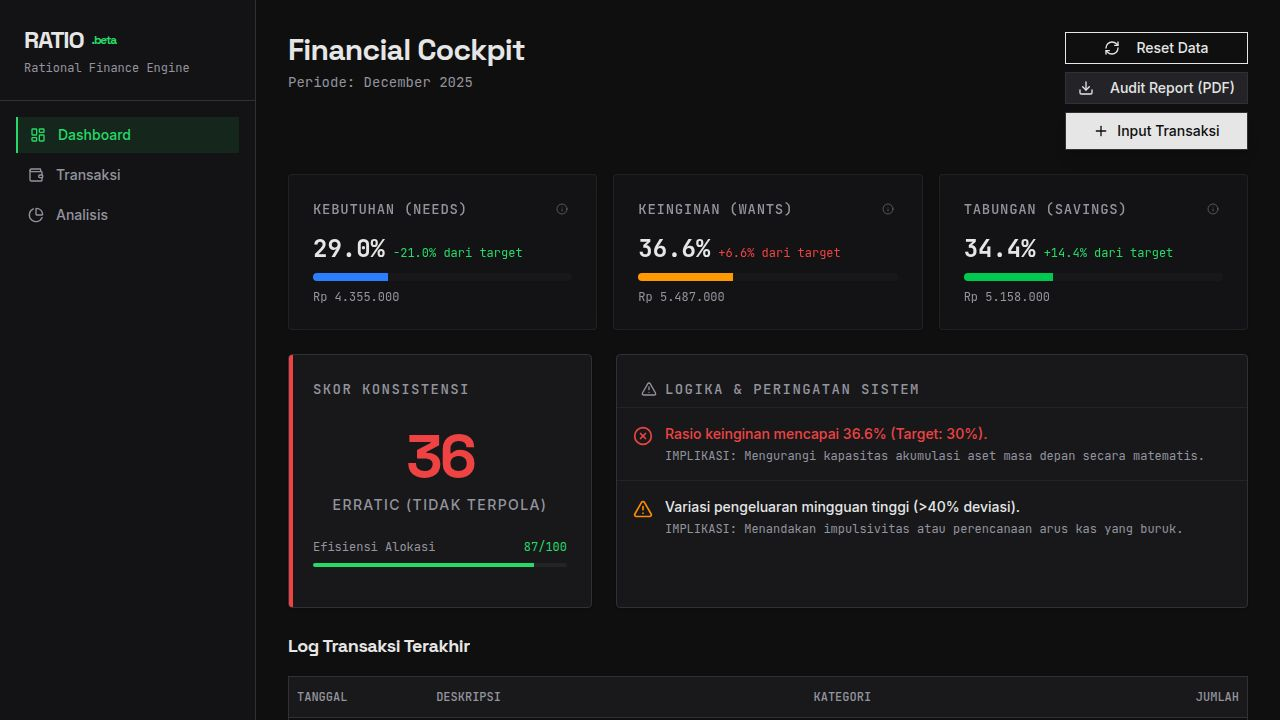
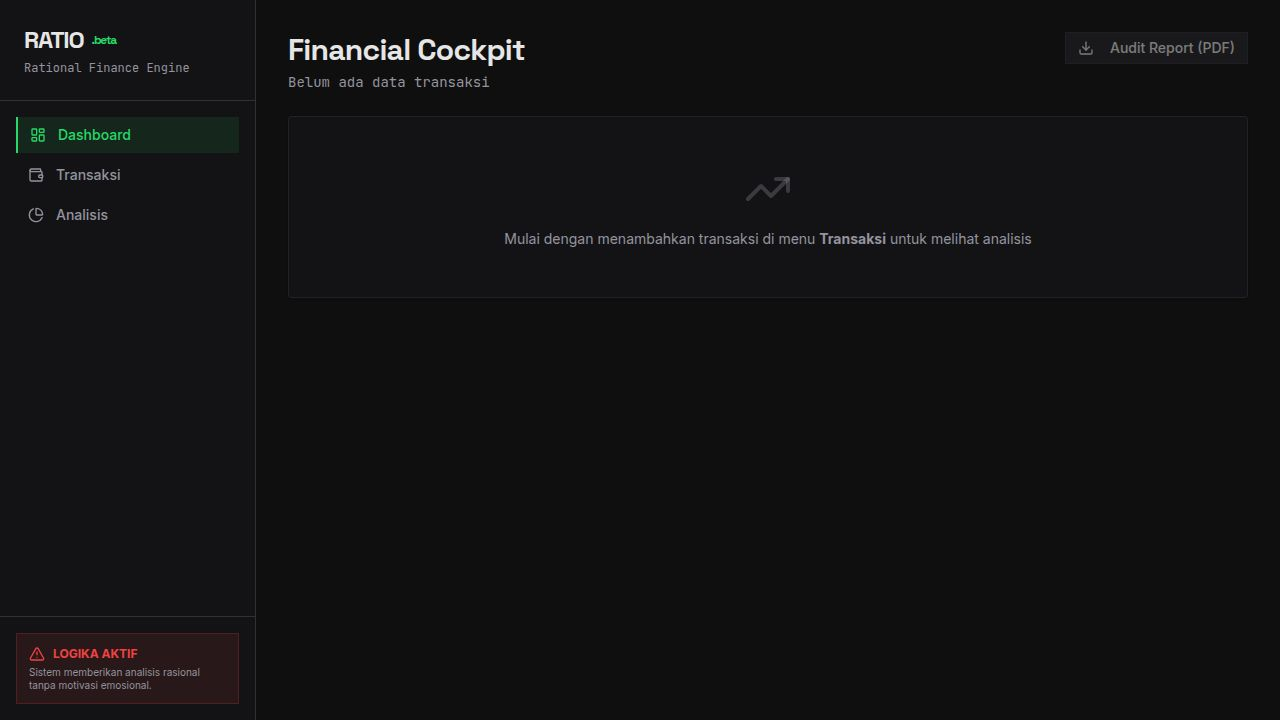
Remove unused authentication pages and simplify navigation
Remove Login, Register, and Settings pages, simplifying the app's routing and removing authentication-related code from App.tsx and Shell.tsx.

Replit-Commit-Author: Agent
Replit-Commit-Session-Id: ad09e2ed-7f14-4485-82d7-936a2b49006a
Replit-Commit-Checkpoint-Type: full_checkpoint
Replit-Commit-Event-Id: d9ac6431-d1d4-4ba0-9543-303f537963c8
Replit-Commit-Screenshot-Url: https://storage.googleapis.com/screenshot-production-us-central1/1df24301-7d6c-4cb4-98c6-3103d84519f4/ad09e2ed-7f14-4485-82d7-936a2b49006a/pSBwc2O
Replit-Helium-Checkpoint-Created: true

diff --git a/client/src/components/layout/Shell.tsx b/client/src/components/layout/Shell.tsx
@@ -5,11 +5,7 @@ import {
   Wallet,
   PieChart,
   AlertTriangle,
-  ChevronLeft,
-  ChevronRight,
-  Settings,
 } from "lucide-react";
-import { useAuth } from "@/lib/auth";
 import { cn } from "@/lib/utils";
 
 export function Shell({ children }: { children: React.ReactNode }) {
@@ -32,7 +28,6 @@ export function Shell({ children }: { children: React.ReactNode }) {
     { icon: LayoutDashboard, label: "Dashboard", href: "/" },
     { icon: Wallet, label: "Transaksi", href: "/transactions" },
     { icon: PieChart, label: "Analisis", href: "/analysis" },
-    { icon: Settings, label: "Pengaturan", href: "/settings" },
   ];
 
   useEffect(() => {
@@ -55,16 +50,10 @@ export function Shell({ children }: { children: React.ReactNode }) {
         )}
       >
         <div className="p-6 border-b border-border">
-          <div className="flex items-center justify-between">
-            <div className="flex items-center gap-2">
-              <h1 className="text-2xl font-display font-bold tracking-tighter flex items-center gap-2">
-                RATIO<span className="text-accent text-xs align-top">.beta</span>
-              </h1>
-            </div>
-
-            <div className="flex items-center gap-2">
-              <AuthArea collapsed={collapsed} setCollapsed={setCollapsed} />
-            </div>
+          <div className="flex items-center justify-between gap-2">
+            <h1 className="text-2xl font-display font-bold tracking-tighter flex items-center gap-2">
+              RATIO<span className="text-accent text-xs align-top">.beta</span>
+            </h1>
           </div>
           <p className="text-xs text-muted-foreground mt-1 font-mono">
             Rational Finance Engine
@@ -106,55 +95,19 @@ export function Shell({ children }: { children: React.ReactNode }) {
                 Logika Aktif
               </span>
             </div>
-            <p className="text-[10px] text-muted-foreground leading-tight">
-              Sistem akan memberikan peringatan rasional tanpa empati buatan.
+            <p className={cn("text-[10px] text-muted-foreground leading-tight", collapsed && "hidden")}>
+              Sistem memberikan analisis rasional tanpa motivasi emosional.
             </p>
           </div>
         </div>
       </aside>
 
       {/* Main Content */}
-      <main
-        className={cn(
-          "flex-1 overflow-auto transition-all duration-200",
-          isMobile ? "ml-0" : collapsed ? "md:ml-16" : "md:ml-64"
-        )}
-      >
-        <div className="container mx-auto max-w-7xl p-6 md:p-8 space-y-8">
+      <main className={cn("flex-1 overflow-auto", "md:ml-64")}>
+        <div className="container mx-auto max-w-7xl p-4 sm:p-6 md:p-8 space-y-6 md:space-y-8">
           {children}
         </div>
       </main>
     </div>
-  );
-}
-
-function AuthArea({ collapsed, setCollapsed }: { collapsed: boolean; setCollapsed: (s: boolean) => void }) {
-  const { user, logout } = useAuth();
-
-  return (
-    <>
-      <button
-        aria-label={collapsed ? "Expand sidebar" : "Collapse sidebar"}
-        onClick={() => {
-          setCollapsed((s) => {
-            const next = !s;
-            try { localStorage.setItem("ratio_sidebar_collapsed", next ? "true" : "false"); } catch {}
-            return next;
-          });
-        }}
-        className="p-1 rounded-sm hover:bg-accent/5 text-muted-foreground"
-      >
-        {collapsed ? <ChevronRight className="w-4 h-4" /> : <ChevronLeft className="w-4 h-4" />}
-      </button>
-
-      {user ? (
-        <div className="flex items-center gap-2">
-          <div className={cn("text-sm text-muted-foreground", collapsed && "hidden")}>{user.username}</div>
-          <button onClick={logout} className="px-2 py-1 text-xs rounded-sm border">
-            Logout
-          </button>
-        </div>
-      ) : null}
-    </>
   );
 }

diff --git a/client/src/pages/Register.tsx b/client/src/pages/Register.tsx
@@ -1,90 +1,6 @@
-import React, { useState } from "react";
-import { useAuth } from "@/lib/auth";
-import { Link } from "wouter";
-import { Shell } from "@/components/layout/Shell";
-import { cn } from "@/lib/utils";
+// This page is deprecated - use Dashboard instead
+import { Navigate } from "wouter";
 
 export default function Register() {
-  const { register } = useAuth();
-  const [username, setUsername] = useState("");
-  const [password, setPassword] = useState("");
-  const [confirm, setConfirm] = useState("");
-  const [error, setError] = useState<string | null>(null);
-  const [strength, setStrength] = useState(0);
-
-  async function handleSubmit(e: React.FormEvent) {
-    e.preventDefault();
-    setError(null);
-    if (!username) return setError("Masukkan nama pengguna");
-    if (!password) return setError("Masukkan kata sandi");
-    if (password.length < 8) return setError("Kata sandi minimal 8 karakter");
-    if (password !== confirm) return setError("Kata sandi tidak cocok");
-
-    const res = await register(username, password);
-    if (!res.ok) setError(res.message || "Gagal membuat akun");
-  }
-
-  function calcStrength(pw: string) {
-    let score = 0;
-    if (pw.length >= 8) score++;
-    if (/[A-Z]/.test(pw)) score++;
-    if (/[0-9]/.test(pw)) score++;
-    if (/[^A-Za-z0-9]/.test(pw)) score++;
-    return score; // 0-4
-  }
-
-
-  return (
-    <Shell>
-      <div className="max-w-sm mx-auto mt-16 p-6 bg-card rounded-md border border-border">
-        <h2 className="text-lg font-semibold mb-4">Buat Akun</h2>
-        <form onSubmit={handleSubmit} className="space-y-3">
-          <div>
-            <label className="text-xs text-muted-foreground">Nama Pengguna</label>
-            <input
-              value={username}
-              onChange={(e) => setUsername(e.target.value)}
-              className="w-full mt-1 p-2 bg-input border border-border rounded-sm"
-              placeholder="contoh: habib"
-            />
-          </div>
-          <div>
-            <label className="text-xs text-muted-foreground">Kata Sandi</label>
-            <input
-              type="password"
-              value={password}
-              onChange={(e) => { setPassword(e.target.value); setStrength(calcStrength(e.target.value)); }}
-              className="w-full mt-1 p-2 bg-input border border-border rounded-sm"
-            />
-          </div>
-          <div>
-            <div className="h-2 bg-muted rounded-sm overflow-hidden">
-              <div
-                className={cn(
-                  "h-full",
-                  strength <= 1 ? "bg-destructive" : strength === 2 ? "bg-yellow-500" : strength === 3 ? "bg-accent" : "bg-emerald-500"
-                )}
-                style={{ width: `${(strength / 4) * 100}%` }}
-              />
-            </div>
-            <div className="text-xs text-muted-foreground mt-1">{["Very weak","Weak","Fair","Good","Strong"][strength]}</div>
-          </div>
-          <div>
-            <label className="text-xs text-muted-foreground">Konfirmasi Kata Sandi</label>
-            <input
-              type="password"
-              value={confirm}
-              onChange={(e) => setConfirm(e.target.value)}
-              className="w-full mt-1 p-2 bg-input border border-border rounded-sm"
-            />
-          </div>
-          {error && <div className="text-sm text-destructive">{error}</div>}
-          <div className="flex gap-2">
-            <button className="px-3 py-2 bg-accent text-accent-foreground rounded-sm">Buat Akun</button>
-            <Link href="/login" className="px-3 py-2 rounded-sm border inline-flex items-center">Masuk</Link>
-          </div>
-        </form>
-      </div>
-    </Shell>
-  );
+  return <Navigate to="/" />;
 }

diff --git a/client/src/pages/Settings.tsx b/client/src/pages/Settings.tsx
@@ -1,52 +1,6 @@
-import React, { useState } from "react";
-import { useAuth } from "@/lib/auth";
-import { Shell } from "@/components/layout/Shell";
+// This page is deprecated - use Dashboard instead
+import { Navigate } from "wouter";
 
 export default function Settings() {
-  const { user, changePassword, logout } = useAuth();
-  const [oldPass, setOldPass] = useState("");
-  const [newPass, setNewPass] = useState("");
-  const [confirm, setConfirm] = useState("");
-  const [msg, setMsg] = useState<string | null>(null);
-
-  async function handleChange(e: React.FormEvent) {
-    e.preventDefault();
-    setMsg(null);
-    if (newPass.length < 8) return setMsg("Kata sandi minimal 8 karakter");
-    if (newPass !== confirm) return setMsg("Konfirmasi kata sandi tidak cocok");
-    if (!user) return setMsg("Tidak ada pengguna");
-
-    const res = await changePassword(user.username, oldPass, newPass);
-    if (!res.ok) setMsg(res.message || "Gagal mengubah kata sandi");
-    else setMsg("Kata sandi berhasil diubah");
-  }
-
-  return (
-    <Shell>
-      <div className="max-w-md mx-auto mt-8 p-6 bg-card rounded-md border border-border space-y-4">
-        <h2 className="text-lg font-semibold">Pengaturan Akun</h2>
-        <div className="text-sm text-muted-foreground">Nama pengguna: {user?.username}</div>
-
-        <form onSubmit={handleChange} className="space-y-3">
-          <div>
-            <label className="text-xs text-muted-foreground">Kata Sandi Lama</label>
-            <input value={oldPass} onChange={(e) => setOldPass(e.target.value)} className="w-full mt-1 p-2 bg-input border border-border rounded-sm" type="password" />
-          </div>
-          <div>
-            <label className="text-xs text-muted-foreground">Kata Sandi Baru</label>
-            <input value={newPass} onChange={(e) => setNewPass(e.target.value)} className="w-full mt-1 p-2 bg-input border border-border rounded-sm" type="password" />
-          </div>
-          <div>
-            <label className="text-xs text-muted-foreground">Konfirmasi Kata Sandi Baru</label>
-            <input value={confirm} onChange={(e) => setConfirm(e.target.value)} className="w-full mt-1 p-2 bg-input border border-border rounded-sm" type="password" />
-          </div>
-          {msg && <div className="text-sm text-muted-foreground">{msg}</div>}
-          <div className="flex gap-2">
-            <button className="px-3 py-2 bg-accent text-accent-foreground rounded-sm">Ubah Kata Sandi</button>
-            <button type="button" onClick={logout} className="px-3 py-2 rounded-sm border">Logout</button>
-          </div>
-        </form>
-      </div>
-    </Shell>
-  );
+  return <Navigate to="/" />;
 }

diff --git a/client/src/pages/Login.tsx b/client/src/pages/Login.tsx
@@ -1,59 +1,6 @@
-import React, { useState } from "react";
-import { useAuth } from "@/lib/auth";
-import { Shell } from "@/components/layout/Shell";
+// This page is deprecated - use Dashboard instead
+import { Navigate } from "wouter";
 
 export default function Login() {
-  const { login } = useAuth();
-  const [username, setUsername] = useState("");
-  const [password, setPassword] = useState("");
-  const [error, setError] = useState<string | null>(null);
-
-  async function handleSubmit(e: React.FormEvent) {
-    e.preventDefault();
-    setError(null);
-    if (!username) return setError("Masukkan nama pengguna");
-    // password not validated for demo
-    const res = await login(username, password);
-    if (!res.ok) {
-      if (res.message === "user_not_found") setError("Pengguna tidak ditemukan");
-      else if (res.message === "wrong_password") setError("Kata sandi salah");
-      else setError(res.message || "Gagal login");
-    }
-  }
-
-  return (
-    <Shell>
-      <div className="max-w-sm mx-auto mt-16 p-6 bg-card rounded-md border border-border">
-        <h2 className="text-lg font-semibold mb-4">Masuk ke RATIO</h2>
-        <form onSubmit={handleSubmit} className="space-y-3">
-          <div>
-            <label className="text-xs text-muted-foreground">Nama Pengguna</label>
-            <input
-              value={username}
-              onChange={(e) => setUsername(e.target.value)}
-              className="w-full mt-1 p-2 bg-input border border-border rounded-sm"
-              placeholder="contoh: habib"
-            />
-          </div>
-          <div>
-            <label className="text-xs text-muted-foreground">Kata Sandi</label>
-            <input
-              type="password"
-              value={password}
-              onChange={(e) => setPassword(e.target.value)}
-              className="w-full mt-1 p-2 bg-input border border-border rounded-sm"
-            />
-          </div>
-          {error && <div className="text-sm text-destructive">{error}</div>}
-          <div className="flex gap-2">
-            <button className="px-3 py-2 bg-accent text-accent-foreground rounded-sm">Masuk</button>
-            <button type="button" className="px-3 py-2 rounded-sm border" onClick={() => { setUsername(""); setPassword(""); }}>
-              Bersihkan
-            </button>
-            <Link href="/register" className="px-3 py-2 rounded-sm border inline-flex items-center">Daftar</Link>
-          </div>
-        </form>
-      </div>
-    </Shell>
-  );
+  return <Navigate to="/" />;
 }

diff --git a/client/src/App.tsx b/client/src/App.tsx
@@ -1,4 +1,4 @@
-import { Switch, Route, useLocation } from "wouter";
+import { Switch, Route } from "wouter";
 import { queryClient } from "./lib/queryClient";
 import { QueryClientProvider } from "@tanstack/react-query";
 import { Toaster } from "@/components/ui/toaster";
@@ -7,32 +7,13 @@ import NotFound from "@/pages/not-found";
 import Dashboard from "@/pages/Dashboard";
 import Transactions from "@/pages/Transactions";
 import Analysis from "@/pages/Analysis";
-import Login from "@/pages/Login";
-import Register from "@/pages/Register";
-import Settings from "@/pages/Settings";
-import { AuthProvider, useAuth } from "@/lib/auth";
 
 function Router() {
-  // small protected route wrapper for wouter
-  function Protected({ component: Component }: { component: any }) {
-    const { user, loading } = useAuth();
-    const [, setLocation] = useLocation();
-    if (loading) return null;
-    if (!user) {
-      setLocation("/login");
-      return null;
-    }
-    return <Component />;
-  }
-
   return (
     <Switch>
-      <Route path="/login" component={Login} />
-      <Route path="/register" component={Register} />
-      <Route path="/settings" component={() => <Protected component={Settings} />} />
-      <Route path="/" component={() => <Protected component={Dashboard} />} />
-      <Route path="/transactions" component={() => <Protected component={Transactions} />} />
-      <Route path="/analysis" component={() => <Protected component={Analysis} />} />
+      <Route path="/" component={Dashboard} />
+      <Route path="/transactions" component={Transactions} />
+      <Route path="/analysis" component={Analysis} />
       <Route component={NotFound} />
     </Switch>
   );
@@ -41,12 +22,10 @@ function Router() {
 function App() {
   return (
     <QueryClientProvider client={queryClient}>
-      <AuthProvider>
-        <TooltipProvider>
-          <Toaster />
-          <Router />
-        </TooltipProvider>
-      </AuthProvider>
+      <TooltipProvider>
+        <Toaster />
+        <Router />
+      </TooltipProvider>
     </QueryClientProvider>
   );
 }
